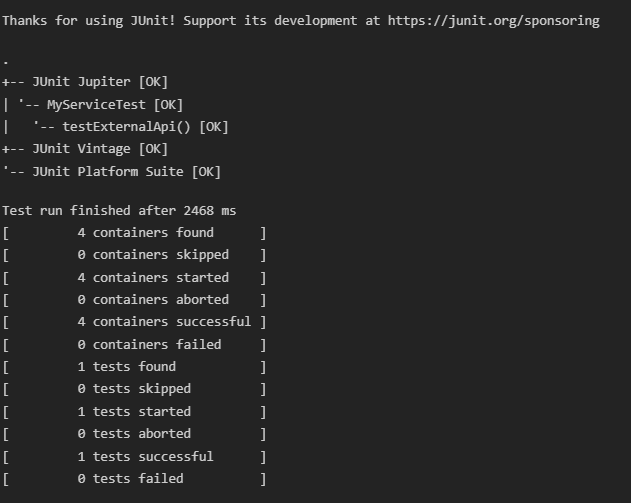
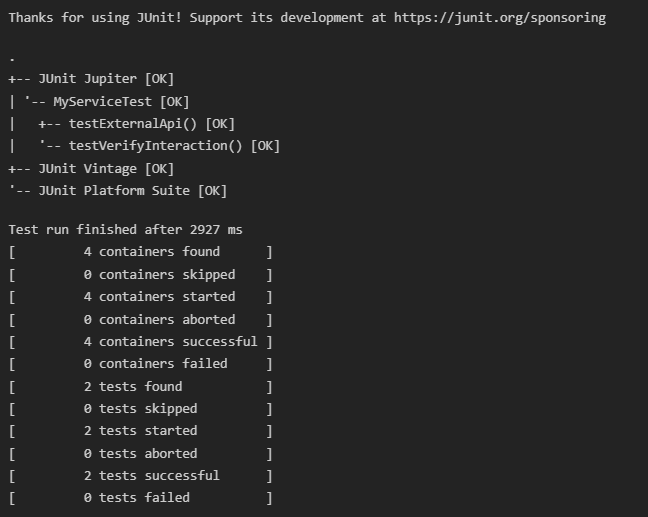
Implement Week 1 Mockito Exercises - Exercise 2: Verifying Interactions and update output screenshot

Changed region(s): [[0.0, 0.1193, 0.4517, 0.9841], [0.0, 0.0, 0.9635, 0.0596]]

diff --git a/week 1/MockitoExercises/src/test/java/MyServiceTest.java b/week 1/MockitoExercises/src/test/java/MyServiceTest.java
@@ -18,4 +18,18 @@ public class MyServiceTest {
 
         assertEquals("Mock Data", result);
     }
+
+    @Test
+    public void testVerifyInteraction() {
+        // Step 1: Create a mock object
+        ExternalApi mockApi = Mockito.mock(ExternalApi.class);
+
+        // Step 2: Call the method
+        MyService service = new MyService(mockApi);
+        service.fetchData();
+
+        // Step 3: Verify the interaction
+        verify(mockApi).getData();
+    }
 }
+

diff --git a/week 1/MockitoExercises/README.md b/week 1/MockitoExercises/README.md
@@ -1,13 +1,15 @@
-# Exercise 1: Mocking and Stubbing (Mockito Hands-On Exercises)
+# Mockito Hands-On Exercises (Exercise 1 & 2)
 
-This project demonstrates how to test a service (`MyService`) that depends on an external API (`ExternalApi`) using Mockito to mock the external API and stub its methods.
+This project contains hands-on exercises for testing a service (`MyService`) that depends on an external API (`ExternalApi`) using Mockito.
+- **Exercise 1**: Mocking and Stubbing.
+- **Exercise 2**: Verifying Interactions.
 
 ## Project Structure
 
 - `pom.xml`: Maven configuration file declaring dependencies for JUnit Jupiter and Mockito.
 - `src/main/java/ExternalApi.java`: Dependency interface defining the `getData()` method.
 - `src/main/java/MyService.java`: Service class consuming `ExternalApi`.
-- `src/test/java/MyServiceTest.java`: JUnit 5 test class mocking the API and stubbing the response to verify functionality.
+- `src/test/java/MyServiceTest.java`: JUnit 5 test class validating behavior using Mockito mocking, stubbing, and verification.
 - `run.py`: A simple python runner script to compile and run tests locally.
 
 ---
@@ -52,7 +54,7 @@ public class MyService {
 }
 ```
 
-### 4. Test Case with Mocking and Stubbing (`MyServiceTest.java`)
+### 4. Mockito Tests (`MyServiceTest.java`)
 ```java
 import static org.mockito.Mockito.*;
 import static org.junit.jupiter.api.Assertions.assertEquals;
@@ -60,6 +62,8 @@ import org.junit.jupiter.api.Test;
 import org.mockito.Mockito;
 
 public class MyServiceTest {
+    
+    // Exercise 1: Mocking and Stubbing
     @Test
     public void testExternalApi() {
         // Step 1: Create a mock object for the external API
@@ -74,8 +78,23 @@ public class MyServiceTest {
 
         assertEquals("Mock Data", result);
     }
+
+    // Exercise 2: Verifying Interactions
+    @Test
+    public void testVerifyInteraction() {
+        // Step 1: Create a mock object
+        ExternalApi mockApi = Mockito.mock(ExternalApi.class);
+
+        // Step 2: Call the method
+        MyService service = new MyService(mockApi);
+        service.fetchData();
+
+        // Step 3: Verify the interaction
+        verify(mockApi).getData();
+    }
 }
 ```
+
 
 ---
 

diff --git a/README.md b/README.md
@@ -138,12 +138,12 @@ This repository contains exercises completed as part of the Cognizant Java Full 
 
 ### Mockito Exercises
 
-#### [Exercise 1: Mocking and Stubbing](./week 1/MockitoExercises)
-- **Scenario:** Test a service (`MyService`) that depends on an external API (`ExternalApi`) using Mockito to mock the external API and stub its methods.
+#### [Exercise 1 & 2: Mocking, Stubbing and Verifying Interactions](./week 1/MockitoExercises)
+- **Scenario:** Test a service (`MyService`) that depends on an external API (`ExternalApi`) using Mockito to mock, stub, and verify method calls on the external API.
 - **Implementation Details:**
-  - **Mock Object:** Using `Mockito.mock(ExternalApi.class)` to create a mock dependency.
-  - **Stubbing:** Utilizing `when(mockApi.getData()).thenReturn("Mock Data")` to define simulated behavior.
-  - **Test Verification:** Running JUnit 5 tests to assert that the mocked response is processed correctly by the service class.
+  - **Mock Object (Exercise 1 & 2):** Using `Mockito.mock(ExternalApi.class)` to create a mock dependency.
+  - **Stubbing (Exercise 1):** Utilizing `when(mockApi.getData()).thenReturn("Mock Data")` to define simulated behavior and asserting results.
+  - **Verifying Interactions (Exercise 2):** Using `verify(mockApi).getData()` to assert that the method was successfully called on the mock dependency.
 - **How to Compile and Run:**
   ```powershell
   cd "week 1/MockitoExercises"
@@ -151,3 +151,4 @@ This repository contains exercises completed as part of the Cognizant Java Full 
   ```
 - **Output Screenshot:**
   ![Mockito Tests Output](./week%201/MockitoExercises/mockito_win.png)
+